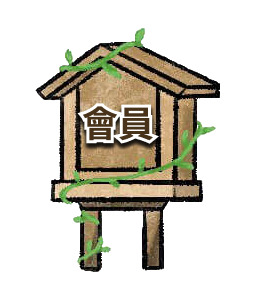
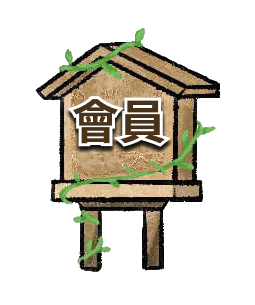
map位子調整 商城儲值紀錄rwd調整

Changed region(s): [[0.2471, 0.2951, 0.6863, 0.5902]]

diff --git a/CSS/index/map.css b/CSS/index/map.css
@@ -153,27 +153,27 @@ body::before {
 .map .house_6 {
   position: absolute;
   font-weight: bold;
-  top: 58px;
-  left: 187px;
+  top: 44px;
+  left: 283px;
   display: block;
-  width: 100px;
+  width: 103px;
   filter: drop-shadow(3px 3px 3px rgb(0, 0, 0));
   text-align: center;
   transform: rotateY(180deg);
   position: absolute;
   z-index: 10;
-
 }
+
 
 .bulletin_board_6 {
   position: absolute;
   font-weight: bold;
-  top: 42px;
+  top: 37px;
   display: block;
   width: 87px;
   filter: drop-shadow(3px 3px 3px rgb(0, 0, 0));
   text-align: center;
-  left: 131px;
+  left: 224px;
 }
 
 .map .house_6,
@@ -193,7 +193,7 @@ body::before {
 .map .house_3 {
     font-weight: bold;
     bottom: 24px;
-    left: 360px;
+    left: 338px;
     display: block;
     width: 98px;
     filter: drop-shadow(3px 3px 3px rgb(0, 0, 0));
@@ -207,7 +207,7 @@ body::before {
      position: absolute;
     font-weight: bold;
     bottom: 20px;
-    left: 300px;
+    left: 281px;
     display: block;
     width: 90px;
     filter: drop-shadow(3px 3px 3px rgb(0, 0, 0));
@@ -231,8 +231,8 @@ body::before {
 .map .house_5 {
   position: absolute;
   font-weight: bold;
-  top: 50px;
-  right: 390px;
+  top: 172px;
+  right: 226px;
   display: block;
   width: 100px;
   filter: drop-shadow(3px 3px 3px rgb(0, 0, 0));
@@ -245,8 +245,8 @@ body::before {
 .bulletin_board_5 {
   position: absolute;
   font-weight: bold;
-  top: 51px;
-  right: 450px;
+  top: 188px;
+  right: 177px;
   display: block;
   width: 80px;
   filter: drop-shadow(3px 3px 3px rgb(0, 0, 0));
@@ -325,7 +325,7 @@ body::before {
   position: absolute;
   display: none;
   width: 100px;
-  left: 85px;
+  left: 180px;
   top: 0;
   opacity: 0;
   transition: opacity 0.5s ease-in-out;
@@ -335,9 +335,9 @@ body::before {
 
 .think_5 {
   position: absolute;
-  width: 100px;
-  left: 200px;
-  top: 0px;
+  width: 90px;
+  right: 120px;
+  top: 150px;
   opacity: 0;
   transition: opacity 0.5s ease-in-out;
   filter: drop-shadow(3px 3px 3px rgb(0, 0, 0));

diff --git a/CSS/store/store_pay_record.css b/CSS/store/store_pay_record.css
@@ -341,7 +341,7 @@ input[type="checkbox"]:checked + span::before {
 @media screen and (max-width: 414px){
   
   body{
-    background-image: url(/IMG/store/background2.png);
+    background-image: url(../../IMG/store/background2.png);
     min-width:100%;
     max-width:100%;
     width: auto;
@@ -376,5 +376,20 @@ input[type="checkbox"]:checked + span::before {
 }
 
 
+.stored_wrapper {
+    background-color: rgb(37, 40, 51);
+    box-shadow: rgba(255, 255, 255, 0.5) 0px 0px 20px;
+    border-radius: 30px;
+    width: 360px;
+    height: 450px;
+    position: absolute;
+    top: 50%;
+    left: 50%;
+    transform: translate(-50%, -50%);
+  }
+.choose_wrapper h1 {
+    margin: 13px 98px;
+  }
+  
 
 }

diff --git a/CSS/store/store_dress.css b/CSS/store/store_dress.css
@@ -823,5 +823,24 @@ body {
   left: 10%;
   cursor: pointer;
   filter: drop-shadow(rgba(0, 0, 0, 0.408) 3px 3px 3px);
+  
 }
+
+
+.pay_wrapper {
+  background-color: rgb(37, 40, 51);
+  box-shadow: rgba(255, 255, 255, 0.5) 0px 0px 20px;
+  border-radius: 30px;
+  width: 360px;
+  height: 450px;
+  position: absolute;
+  top: 50%;
+  left: 50%;
+  transform: translate(-50%, -50%);
+}
+
+.choose_wrapper h1 {
+  margin: 13px 98px;
+}
+
 }
